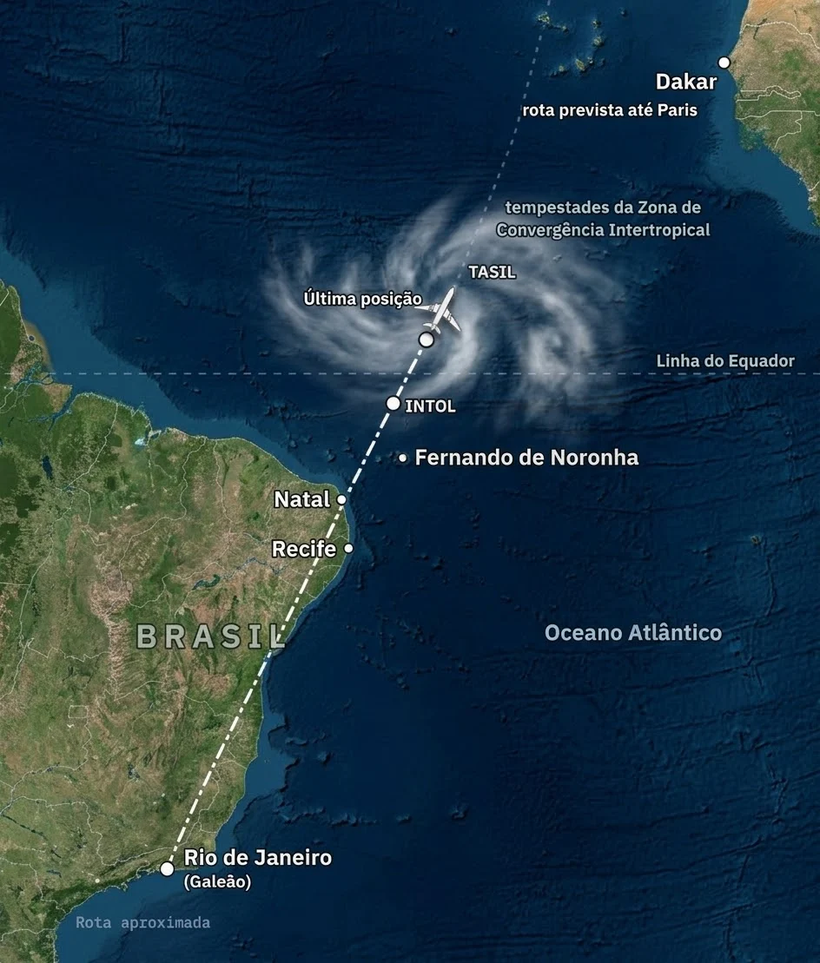
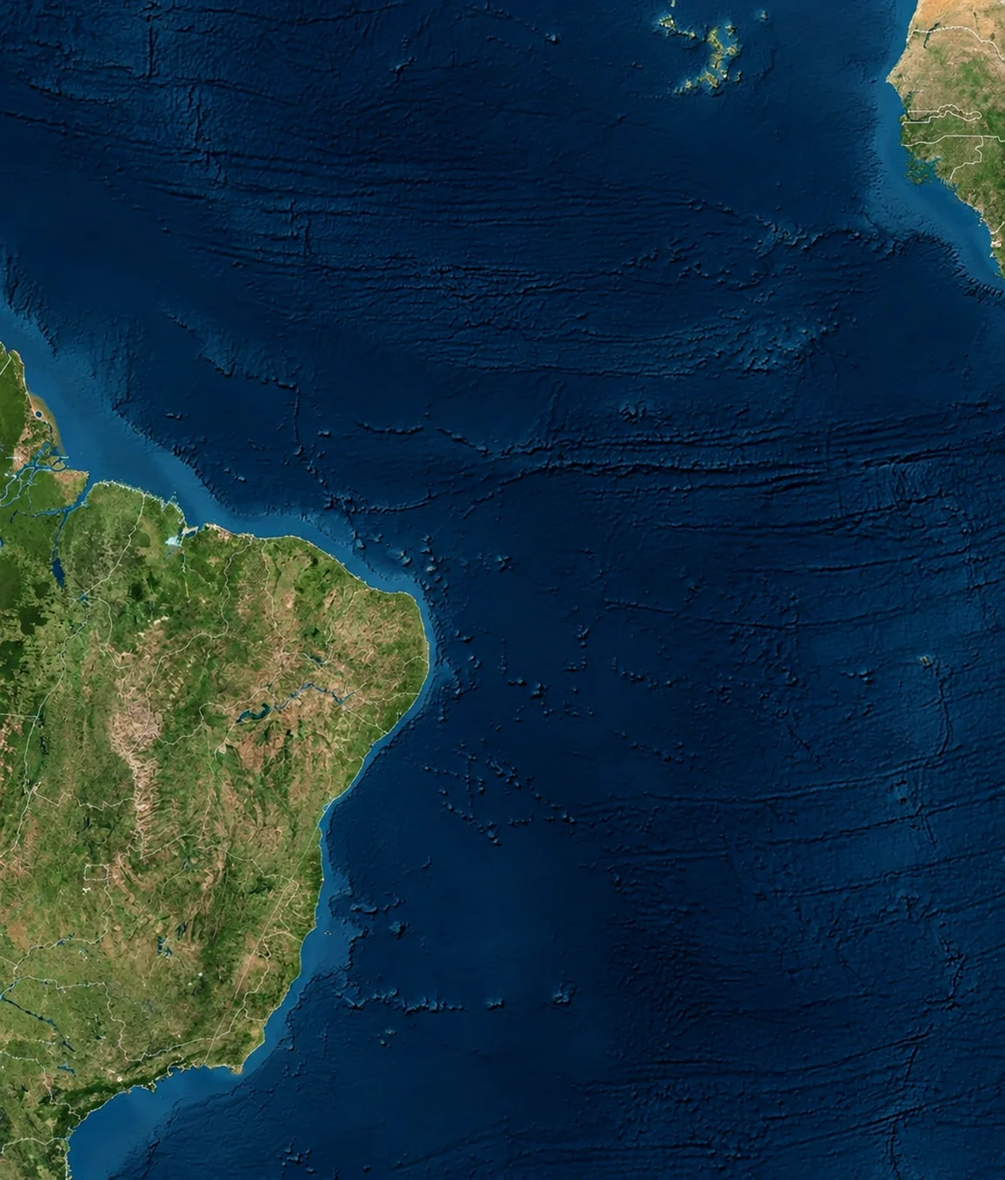
Hangar Escola: AF 447 com mapa de satélite limpo, painel no capítulo 6 e horários com segundos
Claude-Session: https://claude.ai/code/session_01PxKViBYL6qRqF4hkoHqSJb

diff --git a/aviao/desastres.js b/aviao/desastres.js
@@ -80,22 +80,48 @@ function fugoideJal123() {
 const a330 = (cls = 'hs-fill-paper2') => `<g><path d="M-70 4 C-60 -5 -40 -6 -10 -6 H40 C52 -6 58 -2 62 4 C58 8 50 10 40 10 H-60 C-66 10 -70 8 -70 4Z" class="${cls}"/>
   <path d="M-6 6 L-30 24 H-20 L12 6Z" class="hs-fill-ink"/><rect x="-16" y="10" width="18" height="7" rx="3.5" class="hs-fill-metal"/><path d="M-58 -2 L-70 -26 H-62 L-46 -5Z" class="hs-fill-blue"/><path d="M-63 -14 L-66 -20 H-63 L-60 -14Z" class="hs-fill-accent"/><path d="M-60 6 L-76 12 H-68 L-50 6Z" class="hs-fill-ink"/>
   ${[-40, -28, -16, -4, 8, 20, 32].map((x) => `<rect x="${x}" y="-2" width="5" height="4" rx="1" class="hs-fill-ink"/>`).join('')}<path d="M50 -1 h6 l3 3 h-9z" class="hs-fill-ink"/></g>`;
-// Rota sobre a imagem de satélite do Atlântico Sul (coordenadas da imagem, 944x1109)
-const AF447_ROTA = 'M192 1000 L453 464 L490 391';
+// Rota sobre a imagem de satélite do Atlântico Sul (coordenadas da imagem, 1157x1359)
+const AF447_ROTA = 'M235 1226 L555 569 L600 479';
 const AVIAO_A330 = `<g class="dz-plane">
   <path d="M0 -34 C3.4 -34 4.6 -27 4.6 -20 L4.6 22 L3 31 L0 34 L-3 31 L-4.6 22 L-4.6 -20 C-4.6 -27 -3.4 -34 0 -34Z"/>
   <path d="M4.6 -6 L36 13 L36 17 L4.6 8Z M-4.6 -6 L-36 13 L-36 17 L-4.6 8Z"/>
   <path d="M3 22 L15 30 L15 33 L3 30Z M-3 22 L-15 30 L-15 33 L-3 30Z"/>
   <rect x="12" y="1" width="4.6" height="10" rx="2.3"/><rect x="-16.6" y="1" width="4.6" height="10" rx="2.3"/></g>`;
 function mapaAf447() {
-  return `<svg viewBox="0 0 944 1109" role="img" aria-label="Mapa da rota do voo AF 447 sobre o Atlântico Sul" class="dz-map--af">
-    <defs><filter id="dzShadow" x="-50%" y="-50%" width="200%" height="200%"><feDropShadow dx="7" dy="10" stdDeviation="4" flood-color="#000" flood-opacity=".55"/></filter></defs>
-    <image href="assets/af447-mapa.webp" x="0" y="0" width="944" height="1109" preserveAspectRatio="xMidYMid slice"/>
-    <mask id="dzReveal" maskUnits="userSpaceOnUse" x="0" y="0" width="944" height="1109"><path id="dzRevealPath" d="${AF447_ROTA}" fill="none" stroke="#fff" stroke-width="30" stroke-linecap="round" stroke-linejoin="round"/></mask>
+  // Nuvens da tempestade: um aglomerado de células de trovoada desfocadas em volta da última posição
+  const celulas = [[0, 0, 120], [-110, -40, 80], [100, -70, 95], [130, 60, 85], [-60, 90, 75], [30, -150, 70], [-170, 50, 55], [190, -10, 60], [50, 140, 60], [-30, -90, 65]]
+    .map(([x, y, r]) => `<circle cx="${x}" cy="${y}" r="${r}" fill="url(#dzStorm)"/>`).join('');
+  return `<svg viewBox="0 0 1157 1359" role="img" aria-label="Mapa da rota do voo AF 447 sobre o Atlântico Sul" class="dz-map--af">
+    <defs><filter id="dzShadow" x="-50%" y="-50%" width="200%" height="200%"><feDropShadow dx="7" dy="10" stdDeviation="4" flood-color="#000" flood-opacity=".55"/></filter>
+      <filter id="dzBlur" x="-30%" y="-30%" width="160%" height="160%"><feGaussianBlur stdDeviation="14"/></filter>
+      <radialGradient id="dzStorm"><stop offset="0" stop-color="#fff" stop-opacity=".8"/><stop offset=".6" stop-color="#e6edf5" stop-opacity=".45"/><stop offset="1" stop-color="#e6edf5" stop-opacity="0"/></radialGradient></defs>
+    <image href="assets/af447-mapa.webp" x="0" y="0" width="1157" height="1359" preserveAspectRatio="xMidYMid slice"/>
+    <path d="M0 528 H1157" class="dz-eq"/>
+    <g transform="translate(640 455)"><g class="dz-storm-drift"><g filter="url(#dzBlur)">${celulas}</g></g>
+      ${[[-60, -40], [70, -90], [90, 60], [-110, 70], [10, 20]].map(([x, y], i) => `<path d="M${x} ${y} l-14 30 h16 l-12 30" class="dz-bolt" style="animation-delay:${i * .8}s"/>`).join('')}</g>
+    <mask id="dzReveal" maskUnits="userSpaceOnUse" x="0" y="0" width="1157" height="1359"><path id="dzRevealPath" d="${AF447_ROTA}" fill="none" stroke="#fff" stroke-width="40" stroke-linecap="round" stroke-linejoin="round"/></mask>
+    <path d="M600 479 L630 420 L766 0" class="dz-route-plan"/>
     <path id="dzPath" d="${AF447_ROTA}" class="dz-route"/>
     <path d="${AF447_ROTA}" class="dz-route-dash" mask="url(#dzReveal)"/>
+    <g class="dz-labels">
+      <circle cx="235" cy="1226" r="11" class="dz-dot"/><text x="262" y="1222">Rio de Janeiro</text><text x="262" y="1256" class="dz-lbl-s">(Galeão)</text>
+      <circle cx="490" cy="773" r="8" class="dz-dot"/><text x="470" y="785" text-anchor="end">Recife</text>
+      <circle cx="480" cy="706" r="8" class="dz-dot"/><text x="460" y="718" text-anchor="end">Natal</text>
+      <circle cx="567" cy="646" r="7" class="dz-dot"/><text x="586" y="658">Fernando de Noronha</text>
+      <text x="572" y="582" class="dz-lbl-s">INTOL</text>
+      <circle cx="630" cy="420" r="7" class="dz-dot"/><text x="648" y="420" class="dz-lbl-s">TASIL</text>
+      <text x="580" y="470" text-anchor="end" class="dz-lbl-s">Última posição</text>
+      <circle cx="1021" cy="88" r="9" class="dz-dot"/><text x="1005" y="132" text-anchor="end">Dakar</text>
+      <text x="1005" y="170" text-anchor="end" class="dz-lbl-s">rota prevista até Paris</text>
+      <text x="300" y="900" text-anchor="middle" class="dz-lbl-big">BRASIL</text>
+      <text x="880" y="900" text-anchor="middle" class="dz-lbl-w">Oceano Atlântico</text>
+      <text x="1145" y="516" text-anchor="end" class="dz-lbl-s dz-lbl-w">Linha do Equador</text>
+      <text x="870" y="262" text-anchor="middle" class="dz-lbl-s dz-lbl-w">tempestades da Zona de</text><text x="870" y="292" text-anchor="middle" class="dz-lbl-s dz-lbl-w">Convergência Intertropical</text>
+    </g>
     <g id="dzMarks"></g>
-    <g id="dzPlane"><circle r="28" class="dz-plane-halo"/><g transform="scale(.85)" filter="url(#dzShadow)">${AVIAO_A330}</g></g>
+    <path d="M584 463 l32 32 M616 463 l-32 32" class="dz-x"/>
+    <g id="dzPlane"><circle r="34" class="dz-plane-halo"/><g transform="scale(1.05)" filter="url(#dzShadow)">${AVIAO_A330}</g></g>
+    <text x="20" y="1340" class="dz-map-note">Rota aproximada</text>
   </svg>`;
 }
 // As sondas pitot no nariz do A330 entupidas por cristais de gelo: a velocidade indicada despenca
@@ -314,17 +340,17 @@ const ACIDENTES = [
   { t: "O comandante vai descansar", foto: { src: "assets/af447-tempestade.webp", legenda: "Recriação do A330 contornando uma tempestade da Zona de Convergência Intertropical (imagem ilustrativa)", tag: "Curva de 12° à esquerda" }, parte: 1, hora: "23h01", lugar: "Atlântico, perto da linha do Equador", sabia: "Os relatórios mostram que, ao sair, o comandante não disse com clareza quem ficaria no comando. Bonin pilotava, mas Robert era o mais experiente dos dois.", cena: CENAS.tempestade,
     p: ["Às 23h01, o comandante Dubois levantou-se para o seu turno de descanso, como estava previsto. David Robert, que tinha descansado antes, assumiu a cadeira da esquerda. Bonin continuou na da direita, pilotando.", "O comandante saiu sem dar instruções detalhadas sobre a tempestade à frente nem deixar claro quem decidia o quê. Era uma passagem rotineira, numa noite que parecia rotineira.", "Minutos depois, o avião entrou nas nuvens. Começou a balançar. Os pilotos sentiram um cheiro diferente, como de eletricidade, e notaram que lá fora o ar estava estranhamente quente. Às 23h06, Bonin avisou os comissários de que iam entrar numa área de turbulência.", "Robert olhou o radar meteorológico e sugeriu desviar. Às 23h08, o avião fez uma curva de 12 graus para a esquerda, contornando a pior parte. Também reduziram um pouco a velocidade, como se faz em turbulência. Tudo estava sob controle. Faltavam dois minutos."] },
   { t: "23h10: os velocímetros enlouquecem", parte: 2, hora: "23h10", lugar: "35.000 pés, dentro das nuvens", sabia: "A sonda pitot é um tubinho no nariz do avião que mede a pressão do ar que entra nele. Dessa pressão sai a velocidade. Se o tubo entope, a velocidade mostrada fica errada.", cena: CENAS.pitot,
-    p: ["A 35.000 pés, a temperatura lá fora era de mais de 40 graus abaixo de zero. Dentro das nuvens de tempestade, o ar estava cheio de minúsculos cristais de gelo. Eles começaram a se acumular dentro das sondas pitot, os tubinhos que medem a velocidade.", "Às 23h10min05, as sondas entupiram. Em segundos, a velocidade mostrada nos painéis despencou de cerca de 275 nós para perto de 60. Os computadores perceberam que os números não faziam sentido. O piloto automático se desligou com um alarme, e logo depois o controle automático dos motores também.", "Bonin pôs a mão no manche lateral e disse: “Eu tenho os comandos.” Robert respondeu: “Ok.”", "O avião estava perfeito. Os motores funcionavam, as asas estavam intactas, a altitude e a atitude (a posição do nariz) continuavam sendo mostradas corretamente. Só a velocidade estava errada, e só por um tempo. Bastava manter o nariz na mesma posição e esperar o gelo derreter. Mas ninguém na cabine estava esperando por aquilo."] },
-  { t: "O nariz para cima", parte: 2, hora: "23h10", lugar: "Subindo de 35.000 para 38.000 pés", sabia: "Sem o piloto automático e com a velocidade inválida, o A330 entra em \"lei alternada\": muitas proteções automáticas que impedem o avião de passar dos limites deixam de funcionar.", cena: CENAS.alarme,
+    p: ["A 35.000 pés, a temperatura lá fora era de mais de 40 graus abaixo de zero. Dentro das nuvens de tempestade, o ar estava cheio de minúsculos cristais de gelo. Eles começaram a se acumular dentro das sondas pitot, os tubinhos que medem a velocidade.", "Às 23:10:05 seg, as sondas entupiram. Em segundos, a velocidade mostrada nos painéis despencou de cerca de 275 nós para perto de 60. Os computadores perceberam que os números não faziam sentido. O piloto automático se desligou com um alarme, e logo depois o controle automático dos motores também.", "Bonin pôs a mão no manche lateral e disse: “Eu tenho os comandos.” Robert respondeu: “Ok.”", "O avião estava perfeito. Os motores funcionavam, as asas estavam intactas, a altitude e a atitude (a posição do nariz) continuavam sendo mostradas corretamente. Só a velocidade estava errada, e só por um tempo. Bastava manter o nariz na mesma posição e esperar o gelo derreter. Mas ninguém na cabine estava esperando por aquilo."] },
+  { t: "O nariz para cima", foto: { src: "assets/af447-painel.webp", legenda: "Recriação do painel do A330 quando o piloto automático se desligou: AP OFF, lei alternada e alarme de estol (imagem ilustrativa)" }, parte: 2, hora: "23h10", lugar: "Subindo de 35.000 para 38.000 pés", sabia: "Sem o piloto automático e com a velocidade inválida, o A330 entra em \"lei alternada\": muitas proteções automáticas que impedem o avião de passar dos limites deixam de funcionar.", cena: CENAS.alarme,
     p: ["Na turbulência, o avião inclinou para a direita. Bonin corrigiu com o manche, mas exagerou nos movimentos, para um lado e para o outro. E puxou o manche para trás. O nariz subiu.", "Dois avisos curtos soaram na cabine, uma voz sintética dizendo “STALL, STALL” (estol, em inglês). Duraram um instante e pararam. Robert leu os alarmes no painel: “Perdemos as velocidades... lei alternada.”", "O avião começou a subir rápido, a 7.000 pés por minuto. Robert percebeu: “Olha a velocidade... Você está subindo. Desce, desce!” Bonin baixou um pouco o nariz, mas não o suficiente. O avião continuou subindo e perdendo velocidade, como uma bola jogada para o alto.", "Robert apertou várias vezes a campainha que chama o comandante. “Ele vem ou não vem?”, perguntou, nervoso. Em menos de um minuto, o gelo derreteu e as velocidades voltaram ao normal. O problema que tinha começado tudo já não existia. Mas o avião agora estava indo para um problema muito maior."] },
-  { t: "O estol", parte: 2, hora: "23h10min51", lugar: "38.000 pés", sabia: "Estol é quando a asa inclina demais em relação ao vento e o ar se descola dela. A asa deixa de sustentar o avião, não importa quanta força os motores façam.", cena: CENAS.estol,
-    p: ["Perto dos 38.000 pés, o ar é rarefeito e o avião não tem mais velocidade para continuar subindo. Às 23h10min51, o alarme de estol voltou. Desta vez não parou: tocou sem interrupção por 54 segundos.", "O avião tremia inteiro, um chacoalhar que os pilotos chamam de buffet: o ar se descolando das asas. Bonin fez o que tinha aprendido para uma situação perto do chão: motores na potência máxima e nariz para cima. A 38.000 pés, isso não funciona. Sem velocidade, a asa simplesmente não sustenta.", "O A330 parou de voar e começou a cair. O nariz continuava apontado para cima, a cerca de 15 graus, mas o avião descia quase reto, de barriga, a uma velocidade que chegou a 10.000 pés por minuto, mais de 180 km/h para baixo. O ângulo entre a asa e o vento passou de 40 graus.", "Era noite fechada, dentro das nuvens. Não havia horizonte lá fora para mostrar o que estava acontecendo. Nos painéis, os números de altitude giravam para baixo cada vez mais rápido."] },
-  { t: "“O que vocês estão fazendo?”", parte: 2, hora: "23h11min42", lugar: "Caindo, abaixo de 35.000 pés", sabia: "Quando a velocidade medida fica abaixo de 60 nós, os computadores do A330 a consideram inválida e o alarme de estol se cala, justamente quando o estol está pior.", cena: CENAS.cabineNoite,
-    p: ["Às 23h11min42, o comandante Dubois entrou na cabine. Tinha passado só um minuto e meio desde o desligamento do piloto automático. “O que vocês estão fazendo?”, perguntou.", "“Perdemos o controle do avião, não estamos entendendo nada, já tentamos de tudo”, respondeu Robert. O comandante sentou-se na cadeira de trás, atrás dos dois, olhando os instrumentos. Não reassumiu os comandos.", "Os painéis mostravam um quadro confuso. O avião caía, mas o nariz estava alto. A velocidade era tão baixa que os computadores passaram a considerá-la inválida, e o alarme de estol parou de tocar. Quando Bonin empurrava o manche para a frente, o certo a fazer, a velocidade subia, voltava a ser válida e o alarme tocava de novo. Era como se o avião punisse a manobra certa.", "Na cabine de passageiros, ninguém recebeu nenhum aviso. Não há gravação de lá. Pelos dados, o avião sacudia como numa turbulência forte, inclinado para trás, balançando de um lado para o outro. As máscaras de oxigênio não caíram, porque a cabine continuava pressurizada. Talvez muitos nem tenham entendido que o avião estava caindo."] },
-  { t: "Dois manches, duas ordens", parte: 2, hora: "23h13min40", lugar: "Menos de 10.000 pés acima do mar", sabia: "Nos Airbus, os dois manches laterais não são ligados entre si: um piloto não sente o que o outro está fazendo. Se os dois mexem ao mesmo tempo, os comandos se somam e soa o alarme \"DUAL INPUT\".", cena: CENAS.manches,
-    p: ["Durante quase três minutos, os três tentaram entender o que estava acontecendo. Falavam de altitude, de potência, de inclinação. Ninguém disse a palavra estol.", "Às 23h13min40, Bonin disse a frase que mudaria tudo, se tivesse vindo antes: “Mas eu estou com o manche todo para trás faz tempo!”", "O comandante reagiu na hora: “Não, não, não, não suba!” Robert: “Então desce. Me dá os comandos, os comandos para mim!” Robert apertou o botão que dá prioridade ao manche dele e empurrou o nariz para baixo. Pela primeira vez, a saída estava sendo tentada.", "Mas já era tarde. A essa altura, para sair do estol, o avião precisaria baixar muito o nariz e mergulhar, ganhando velocidade, e não havia mais altura para isso. Segundos depois, Bonin voltou a puxar o manche, e o alarme \"DUAL INPUT\" soou: cada um mandava o avião para um lado."] },
-  { t: "Os últimos segundos", parte: 2, hora: "23h14min28", lugar: "Oceano Atlântico", sabia: "As falas dos pilotos foram gravadas em francês pelo gravador de voz da cabine (CVR) e publicadas pelo BEA, o órgão francês de investigação. As frases aqui estão traduzidas.", cena: CENAS.queda,
-    p: ["O alarme de proximidade do solo começou a gritar: “SINK RATE, PULL UP” (descida rápida, puxe para cima). O avião estava a cerca de 2.000 pés do mar, que ninguém via no escuro.", "“Vamos bater!”, disse Bonin. “Não é possível! Mas o que está acontecendo?”", "As últimas palavras gravadas foram do comandante, lendo o instrumento: “Dez graus de atitude.”", "Às 23h14min28, o A330 tocou a água de barriga, com o nariz 16 graus para cima, descendo a quase 11.000 pés por minuto e com pouca velocidade para a frente. O impacto foi violento demais para qualquer um sobreviver. Desde que o piloto automático desligou, tinham passado 4 minutos e 23 segundos. Todas as 228 pessoas a bordo morreram."] },
+  { t: "O estol", parte: 2, hora: "23:10:51 seg", lugar: "38.000 pés", sabia: "Estol é quando a asa inclina demais em relação ao vento e o ar se descola dela. A asa deixa de sustentar o avião, não importa quanta força os motores façam.", cena: CENAS.estol,
+    p: ["Perto dos 38.000 pés, o ar é rarefeito e o avião não tem mais velocidade para continuar subindo. Às 23:10:51 seg, o alarme de estol voltou. Desta vez não parou: tocou sem interrupção por 54 segundos.", "O avião tremia inteiro, um chacoalhar que os pilotos chamam de buffet: o ar se descolando das asas. Bonin fez o que tinha aprendido para uma situação perto do chão: motores na potência máxima e nariz para cima. A 38.000 pés, isso não funciona. Sem velocidade, a asa simplesmente não sustenta.", "O A330 parou de voar e começou a cair. O nariz continuava apontado para cima, a cerca de 15 graus, mas o avião descia quase reto, de barriga, a uma velocidade que chegou a 10.000 pés por minuto, mais de 180 km/h para baixo. O ângulo entre a asa e o vento passou de 40 graus.", "Era noite fechada, dentro das nuvens. Não havia horizonte lá fora para mostrar o que estava acontecendo. Nos painéis, os números de altitude giravam para baixo cada vez mais rápido."] },
+  { t: "“O que vocês estão fazendo?”", parte: 2, hora: "23:11:42 seg", lugar: "Caindo, abaixo de 35.000 pés", sabia: "Quando a velocidade medida fica abaixo de 60 nós, os computadores do A330 a consideram inválida e o alarme de estol se cala, justamente quando o estol está pior.", cena: CENAS.cabineNoite,
+    p: ["Às 23:11:42 seg, o comandante Dubois entrou na cabine. Tinha passado só um minuto e meio desde o desligamento do piloto automático. “O que vocês estão fazendo?”, perguntou.", "“Perdemos o controle do avião, não estamos entendendo nada, já tentamos de tudo”, respondeu Robert. O comandante sentou-se na cadeira de trás, atrás dos dois, olhando os instrumentos. Não reassumiu os comandos.", "Os painéis mostravam um quadro confuso. O avião caía, mas o nariz estava alto. A velocidade era tão baixa que os computadores passaram a considerá-la inválida, e o alarme de estol parou de tocar. Quando Bonin empurrava o manche para a frente, o certo a fazer, a velocidade subia, voltava a ser válida e o alarme tocava de novo. Era como se o avião punisse a manobra certa.", "Na cabine de passageiros, ninguém recebeu nenhum aviso. Não há gravação de lá. Pelos dados, o avião sacudia como numa turbulência forte, inclinado para trás, balançando de um lado para o outro. As máscaras de oxigênio não caíram, porque a cabine continuava pressurizada. Talvez muitos nem tenham entendido que o avião estava caindo."] },
+  { t: "Dois manches, duas ordens", parte: 2, hora: "23:13:40 seg", lugar: "Menos de 10.000 pés acima do mar", sabia: "Nos Airbus, os dois manches laterais não são ligados entre si: um piloto não sente o que o outro está fazendo. Se os dois mexem ao mesmo tempo, os comandos se somam e soa o alarme \"DUAL INPUT\".", cena: CENAS.manches,
+    p: ["Durante quase três minutos, os três tentaram entender o que estava acontecendo. Falavam de altitude, de potência, de inclinação. Ninguém disse a palavra estol.", "Às 23:13:40 seg, Bonin disse a frase que mudaria tudo, se tivesse vindo antes: “Mas eu estou com o manche todo para trás faz tempo!”", "O comandante reagiu na hora: “Não, não, não, não suba!” Robert: “Então desce. Me dá os comandos, os comandos para mim!” Robert apertou o botão que dá prioridade ao manche dele e empurrou o nariz para baixo. Pela primeira vez, a saída estava sendo tentada.", "Mas já era tarde. A essa altura, para sair do estol, o avião precisaria baixar muito o nariz e mergulhar, ganhando velocidade, e não havia mais altura para isso. Segundos depois, Bonin voltou a puxar o manche, e o alarme \"DUAL INPUT\" soou: cada um mandava o avião para um lado."] },
+  { t: "Os últimos segundos", parte: 2, hora: "23:14:28 seg", lugar: "Oceano Atlântico", sabia: "As falas dos pilotos foram gravadas em francês pelo gravador de voz da cabine (CVR) e publicadas pelo BEA, o órgão francês de investigação. As frases aqui estão traduzidas.", cena: CENAS.queda,
+    p: ["O alarme de proximidade do solo começou a gritar: “SINK RATE, PULL UP” (descida rápida, puxe para cima). O avião estava a cerca de 2.000 pés do mar, que ninguém via no escuro.", "“Vamos bater!”, disse Bonin. “Não é possível! Mas o que está acontecendo?”", "As últimas palavras gravadas foram do comandante, lendo o instrumento: “Dez graus de atitude.”", "Às 23:14:28 seg, o A330 tocou a água de barriga, com o nariz 16 graus para cima, descendo a quase 11.000 pés por minuto e com pouca velocidade para a frente. O impacto foi violento demais para qualquer um sobreviver. Desde que o piloto automático desligou, tinham passado 4 minutos e 23 segundos. Todas as 228 pessoas a bordo morreram."] },
   { t: "O avião que não chegou", parte: 3, hora: "1º de junho", lugar: "Dakar, Paris e Rio de Janeiro", sabia: "Entre 23h10 e 23h14, o avião mandou sozinho 24 mensagens automáticas de manutenção (ACARS) para a Air France. Elas foram as primeiras pistas do que tinha falhado.", cena: CENAS.painelParis,
     p: ["O controle de Dakar esperava o contato do AF 447, que não veio. No começo, achou-se que fosse só um problema de rádio, algo que acontece sobre o oceano. As horas passaram, e o avião nunca chegou ao espaço aéreo seguinte.", "Na manhã de 1º de junho, em Paris, o painel de chegadas do aeroporto Charles de Gaulle mostrava o voo de Rio como atrasado. Parentes e amigos esperavam no saguão. Até que funcionários da Air France os levaram para uma sala reservada. No Rio, cenas parecidas aconteciam no Galeão.", "Nos computadores da Air France havia uma sequência de mensagens automáticas que o avião tinha enviado nos seus últimos minutos: velocidades incoerentes, piloto automático desligado, proteções perdidas. A última chegou às 23h14.", "O presidente francês, Nicolas Sarkozy, foi ao aeroporto encontrar as famílias. No Brasil, a Força Aérea e a Marinha começaram a varrer o oceano perto da linha do Equador."] },
   { t: "Destroços no Atlântico", parte: 3, hora: "Junho de 2009", lugar: "Oceano Atlântico, perto da linha do Equador", sabia: "O estabilizador vertical, a cauda do avião, foi achado boiando quase inteiro. Ele foi uma das provas de que o A330 caiu inteiro, de barriga, e não se partiu no ar.", cena: CENAS.busca,
@@ -338,9 +364,9 @@ const ACIDENTES = [
   { t: "Na Justiça", parte: 4, hora: "2009–2026", lugar: "Tribunais de Paris", sabia: "Na França, empresas podem responder criminalmente por um acidente. A multa de 225.000 euros era a pena máxima prevista para esse crime.", cena: CENAS.tribunal,
     p: ["Famílias das vítimas, reunidas em associações na França e no Brasil, lutaram por anos para que alguém fosse responsabilizado. A Airbus e a Air France foram acusadas de homicídio culposo, sem intenção de matar.", "Em 2019, os juízes de instrução arquivaram o caso. As famílias recorreram, e em 2021 a Justiça mandou as duas empresas a julgamento. Em abril de 2023, depois de um julgamento de dois meses, elas foram absolvidas: o tribunal apontou falhas da Airbus e da Air France, mas disse que não era possível provar com certeza que elas causaram o acidente.", "A promotoria recorreu. Em 21 de maio de 2026, o Tribunal de Apelação de Paris inverteu a decisão e condenou a Airbus e a Air France por homicídio culposo, com multa de 225.000 euros cada uma.", "Para muitas famílias, o valor foi simbólico, poucos minutos de faturamento das duas empresas. As duas anunciaram recurso ao Tribunal de Cassação, a última instância, que não julga de novo os fatos, só se a lei foi bem aplicada. Dezessete anos depois, o caso ainda não terminou."] },
     ],
-    linha: [['19:29', 'Decolagem do Galeão, Rio de Janeiro, com 228 pessoas a bordo.', [192, 1000]], ['22:35', 'Último contato por rádio com o controle de Recife, perto do ponto INTOL. Dali em diante, sem radar.', [453, 464]],
-      ['23:01', 'O comandante sai para descansar. O avião se aproxima das tempestades perto da linha do Equador.', [472, 428]], ['23:10', 'As sondas pitot congelam, o piloto automático se desliga e o avião sobe até entrar em estol.', [484, 404]],
-      ['23:14', 'Queda no Atlântico, 4 minutos e 23 segundos depois do desligamento do piloto automático.', [490, 391]]],
+    linha: [['19:29', 'Decolagem do Galeão, Rio de Janeiro, com 228 pessoas a bordo.', [235, 1226]], ['22:35', 'Último contato por rádio com o controle de Recife, perto do ponto INTOL. Dali em diante, sem radar.', [555, 569]],
+      ['23:01', 'O comandante sai para descansar. O avião se aproxima das tempestades perto da linha do Equador.', [578, 525]], ['23:10', 'As sondas pitot congelam, o piloto automático se desliga e o avião sobe até entrar em estol.', [593, 495]],
+      ['23:14', 'Queda no Atlântico, 4 minutos e 23 segundos depois do desligamento do piloto automático.', [600, 479]]],
     falha: 'Ponto de partida: cristais de gelo entupiram as sondas pitot por cerca de um minuto. A velocidade mostrada despencou, o piloto automático se desligou e o avião ficou nas mãos dos pilotos, sem as proteções de sempre.',
     mudou: ['A EASA tornou obrigatória a troca das sondas pitot Thales AA nos A330 e A340 por modelos mais resistentes ao gelo.',
       'O treinamento mudou no mundo inteiro: a recuperação de estol passou a priorizar baixar o nariz, mesmo perdendo altura, e o treino de prevenção e recuperação de atitudes anormais (UPRT) virou obrigatório na Europa e nos Estados Unidos.',

diff --git a/aviao/sw.js b/aviao/sw.js
@@ -1,7 +1,7 @@
 /* Service worker: o app abre e funciona offline. */
-const CACHE = 'hangar-escola-v110';
+const CACHE = 'hangar-escola-v111';
 // Os arquivos levam "?v=" no index.html: ao mudar a versão, o celular nunca mistura CSS/JS antigo com HTML novo.
-const FILES = ['./', 'index.html', 'style.css?v=110', 'avioes.js?v=110', 'catalogo747.js?v=110', 'cockpit747.js?v=110', 'motor3d.js?v=110', 'motor747.js?v=110', 'meteo.js?v=110', 'radio.js?v=110', 'historia.js?v=110', 'desastres.js?v=110', 'app.js?v=110', 'icon.svg', 'manifest.webmanifest', 'assets/747-lateral.jpg', 'assets/747-frontal.jpg', 'assets/747-motor.jpg', 'assets/747-superior.png', 'assets/747-lado.webp', 'assets/747-lado-prof.webp', 'assets/747-tras.webp', 'assets/747-tras-trem.webp', 'assets/bank-angle.mp3', 'assets/v1.mp3', 'assets/nuvem-cb.webp', 'assets/nuvem-cu.webp', 'assets/nuvem-ci.webp', 'assets/nuvem-cc.webp', 'assets/nuvem-cs.webp', 'assets/nuvem-ac.webp', 'assets/nuvem-as.webp', 'assets/nuvem-ns.webp', 'assets/nuvem-sc.webp', 'assets/nuvem-st.webp', 'assets/nuvens-atlas.webp', 'assets/historia-1881.webp', 'assets/historia-vevey.webp', 'assets/historia-serraria.webp', 'assets/historia-dominguez.webp', 'assets/historia-curtiss.webp', 'assets/jal123-mapa.webp', 'assets/jal123-haneda.webp', 'assets/jal123-decolagem.webp', 'assets/jal123-cauda.webp', 'assets/jal123-cabine.webp', 'assets/jal123-hidraulico.webp', 'assets/jal123-manetes.webp', 'assets/jal123-montanhas.webp', 'assets/jal123-bilhete.webp', 'assets/jal123-c130.webp', 'assets/jal123-deriva.webp', 'assets/af447-mapa.webp', 'assets/af447-galeao.webp', 'assets/af447-decolagem.webp', 'assets/af447-lua.webp', 'assets/af447-tempestade.webp'];
+const FILES = ['./', 'index.html', 'style.css?v=111', 'avioes.js?v=111', 'catalogo747.js?v=111', 'cockpit747.js?v=111', 'motor3d.js?v=111', 'motor747.js?v=111', 'meteo.js?v=111', 'radio.js?v=111', 'historia.js?v=111', 'desastres.js?v=111', 'app.js?v=111', 'icon.svg', 'manifest.webmanifest', 'assets/747-lateral.jpg', 'assets/747-frontal.jpg', 'assets/747-motor.jpg', 'assets/747-superior.png', 'assets/747-lado.webp', 'assets/747-lado-prof.webp', 'assets/747-tras.webp', 'assets/747-tras-trem.webp', 'assets/bank-angle.mp3', 'assets/v1.mp3', 'assets/nuvem-cb.webp', 'assets/nuvem-cu.webp', 'assets/nuvem-ci.webp', 'assets/nuvem-cc.webp', 'assets/nuvem-cs.webp', 'assets/nuvem-ac.webp', 'assets/nuvem-as.webp', 'assets/nuvem-ns.webp', 'assets/nuvem-sc.webp', 'assets/nuvem-st.webp', 'assets/nuvens-atlas.webp', 'assets/historia-1881.webp', 'assets/historia-vevey.webp', 'assets/historia-serraria.webp', 'assets/historia-dominguez.webp', 'assets/historia-curtiss.webp', 'assets/jal123-mapa.webp', 'assets/jal123-haneda.webp', 'assets/jal123-decolagem.webp', 'assets/jal123-cauda.webp', 'assets/jal123-cabine.webp', 'assets/jal123-hidraulico.webp', 'assets/jal123-manetes.webp', 'assets/jal123-montanhas.webp', 'assets/jal123-bilhete.webp', 'assets/jal123-c130.webp', 'assets/jal123-deriva.webp', 'assets/af447-mapa.webp', 'assets/af447-galeao.webp', 'assets/af447-decolagem.webp', 'assets/af447-lua.webp', 'assets/af447-tempestade.webp', 'assets/af447-painel.webp'];
 
 self.addEventListener('install', (e) => {
   e.waitUntil(caches.open(CACHE).then((c) => c.addAll(FILES)).then(() => self.skipWaiting()));

diff --git a/aviao/index.html b/aviao/index.html
@@ -13,7 +13,7 @@
   <link rel="preconnect" href="https://fonts.googleapis.com">
   <link rel="preconnect" href="https://fonts.gstatic.com" crossorigin>
   <link href="https://fonts.googleapis.com/css2?family=Barlow+Condensed:wght@500;600;700&family=IBM+Plex+Mono:wght@400;500&family=IBM+Plex+Sans:wght@400;500;600&display=swap" rel="stylesheet">
-  <link rel="stylesheet" href="style.css?v=110">
+  <link rel="stylesheet" href="style.css?v=111">
 </head>
 <body>
   <!-- Intro: o avião decola pela pista iluminada e aparece o nome do app (toque para pular) -->
@@ -984,16 +984,16 @@
       </div>
     </section>
   </aside>
-  <script src="avioes.js?v=110"></script>
-  <script src="catalogo747.js?v=110"></script>
-  <script src="cockpit747.js?v=110"></script>
-  <script src="motor3d.js?v=110"></script>
-  <script src="motor747.js?v=110"></script>
-  <script src="meteo.js?v=110"></script>
-  <script src="radio.js?v=110"></script>
-  <script src="historia.js?v=110"></script>
-  <script src="desastres.js?v=110"></script>
-  <script src="app.js?v=110"></script>
+  <script src="avioes.js?v=111"></script>
+  <script src="catalogo747.js?v=111"></script>
+  <script src="cockpit747.js?v=111"></script>
+  <script src="motor3d.js?v=111"></script>
+  <script src="motor747.js?v=111"></script>
+  <script src="meteo.js?v=111"></script>
+  <script src="radio.js?v=111"></script>
+  <script src="historia.js?v=111"></script>
+  <script src="desastres.js?v=111"></script>
+  <script src="app.js?v=111"></script>
   <script>
     // No APK os arquivos já vêm dentro do app; o service worker é só para o site.
     const nativo = !!(window.Capacitor && window.Capacitor.isNativePlatform && window.Capacitor.isNativePlatform());

diff --git a/aviao/style.css b/aviao/style.css
@@ -1143,3 +1143,10 @@ body.drawer-lock { overflow: hidden; }
 .px-finw { fill: #f3f5f7; stroke: #1b2630; }
 .hs-photo__frame { position: relative; }
 .hs-photo__tag { position: absolute; left: 12px; bottom: 12px; padding: 5px 9px; border-radius: 6px; font: 600 11.5px var(--mono); letter-spacing: .06em; text-transform: uppercase; color: #fff; background: rgba(8, 14, 22, .72); border: 1px solid rgba(255, 255, 255, .25); }
+.dz-storm-drift { animation: dzDrift 9s ease-in-out infinite alternate; }
+@keyframes dzDrift { from { transform: translate(-8px, 4px) scale(.97); } to { transform: translate(8px, -4px) scale(1.03); } }
+.dz-map--af .dz-labels text { font-size: 34px; }
+.dz-map--af .dz-labels .dz-lbl-s { font-size: 26px; }
+.dz-map--af .dz-labels .dz-lbl-big { font-size: 52px; }
+.dz-map-note { font-size: 22px; }
+@media (prefers-reduced-motion: reduce) { .dz-storm-drift { animation: none !important; } }
